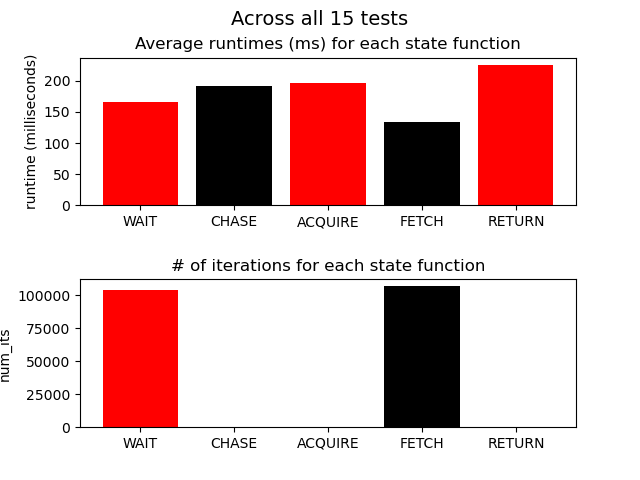
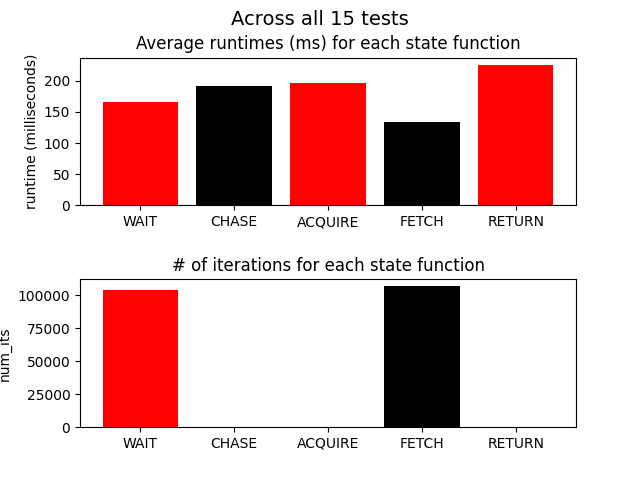
Print statements for debugging with no display

diff --git a/notebooks/luis/code/main.py b/notebooks/luis/code/main.py
@@ -24,10 +24,10 @@ def microcontroller_PROX_handler(signum,frame): # SIGUSR2
     ctrl.proximity = int(not ctrl.proximity)
     # Tell the microcontroller not to send any more proximity data until the design re-enters the ACQUIRE state
     # ctrl.communication_stop() 
-    print("PROXIMITY: ",ctrl.proximity,'\n') # NOTe: REmove print statements in interrupt handlers
+    print("PROXIMITY: ",ctrl.proximity,'\n') # NOTE: Remove print statements from interrupt handlers
     signal.signal(signal.SIGUSR2,microcontroller_PROX_handler)
 
-def main(gettimes,noprint,demo,manual,start_state):
+def main(gettimes,noprint,demo,manual,start_state,num_samples):
     global init_time
     global errfile
     init_time,logfile,errfile = logdata()
@@ -37,7 +37,7 @@ def main(gettimes,noprint,demo,manual,start_state):
     global ctrl
     # Initialize the camera, control, and fsm objects.
     cam  = camera(               noprint,demo,manual,0,logfile)
-    ctrl = control(     gettimes,noprint,demo,manual,0,logfile) 
+    ctrl = control(     gettimes,noprint,demo,manual,0,logfile,num_samples) 
     # Set up the signal handlers
     signal.signal(signal.SIGUSR1, microcontroller_CTRL_ACK_handler)
     signal.signal(signal.SIGUSR2, microcontroller_PROX_handler)
@@ -95,12 +95,15 @@ def main(gettimes,noprint,demo,manual,start_state):
         
 
 def init_fetching(args):
-    global fsm
+    global ctrl
     gettimes,noprint,demo,manual,start_state=args[:5]
+    n_samples=None
+    if len(args)==6:
+        n_samples=args[5]
     # Run main with the processed command line arguments as well as the time
     # of initialization and the log file.
     try:
-        main(gettimes,noprint,demo,manual,start_state)
+        main(gettimes,noprint,demo,manual,start_state,n_samples)
     # If there is a Keyboard interrupt, assume that it was raised 
     # by the program's response to user input and that the program 
     # exited normally
@@ -111,9 +114,10 @@ def init_fetching(args):
         try:
             fsm.control.pincers_move(1)
             fsm.control.pi_int()
+            time.sleep(0.5)
             fsm.control.stop_all()
         except:
-            print("Couldn't stop the motors")
+            print("Couldn't stop the motors (init_fetching)")
         timedata_files(gettimes,init_time)
         print("\nDone.\nTerminated by user input.")
     return 0
@@ -121,6 +125,7 @@ def init_fetching(args):
 def parse_args():
     global init_time
     global errfile
+    global fsm
     init_time = time.time()
     errfile = 'init-err.txt'
     try:        
@@ -129,12 +134,15 @@ def parse_args():
         # demo    - (0 if no demo, 1 if demo)        Choose whether we boot in to demo mode or not 
         # manual  - (0 if auto,    1 if manual)      Choose whether the design boots with auto/manual control 
         # start_state - (the state to be unit tested) Choose the name (all caps) of the initial FSM state (default is WAIT)
+        # n_samples - (runtime sampling only)         Choose the number of iterations to be sampled from the initial state's state function
         argv = sys.argv[1:]
         # DEFAULT: No timedata, allow printing, boot in demo mode, 
         # boot with manual controls, start the FSM in the WAIT state
         if len(argv)==0:
             # argv = []
             args = [None,0,1,1,'WAIT']
+        elif len(argv)==6:
+            args = [str(argv[0]),int(argv[1]),int(argv[2]),int(argv[3]),str(argv[4])]
         elif len(argv)==5:
             ### Unit test the state specified in the 5th argument ###
             # argv = [time noprint demo manual start_state]
@@ -176,6 +184,13 @@ def parse_args():
         # If an unexpected Exception has occured, then write an error log
         # to the err.txt file generated for the date and time when the 
         # exception occured.
+        try:
+            fsm.control.pincers_move(1)
+            fsm.control.pi_int()
+            time.sleep(0.5)
+            fsm.control.stop_all()
+        except:
+            print("Couldn't stop the motors (parse_args)")
         current_time = time.strftime("%Y-%m-%d_%H.%M.%S", time.localtime())[11:]
         writefile(errfile,f"Time: {current_time}\nERROR: {e}\n")
         backtrace = traceback.format_exc()

diff --git a/notebooks/luis/code/helpers/helpers.py b/notebooks/luis/code/helpers/helpers.py
@@ -103,7 +103,7 @@ def logdata():
     return (init_time,logfile,errfile)
 # Keep track of the runtime data for the fetching subsystem. 
 # (unusable with the current code)
-def time_data(args,state,step,t0=0,noprint=0,logfile=None):
+def time_data(args,state,step,t0=0,noprint=0,logfile=None,num_samples=None):
     global T0_SET
     global T0
     global T1
@@ -111,6 +111,7 @@ def time_data(args,state,step,t0=0,noprint=0,logfile=None):
     global log_file
     global time_data_dict
     global microcontroller_time_data_list
+    global n_samples
     if args=='time':
         if step==0:
             T0_SET = 0
@@ -120,6 +121,7 @@ def time_data(args,state,step,t0=0,noprint=0,logfile=None):
             microcontroller_time_data_list=[]
             no_print=noprint
             log_file = logfile
+            n_samples = num_samples
         elif step==1:
             T0_SET = 0
         elif step==2:
@@ -128,12 +130,10 @@ def time_data(args,state,step,t0=0,noprint=0,logfile=None):
                 time_data_dict[state].append(round(1000*(T1-T0),2))
             T0=time.perf_counter()
             T0_SET = 1
-            if time.time()-t0>5*60:
-                # print(time.time()-t0)
+            if n_samples is not None and len(time_data_dict[state])>=n_samples:
                 return -13
         elif step==3:
             for state,runtimes in list(time_data_dict.items()):
-                # print(f"{state}: {runtimes}")
                 # TODO: ENCOUNTERED AN ERROR IN WHICH THE FIRST ENTRY IN THE TIMEDATA
                 # IS OFTEN DISPROPORTIONATELY LARGER THAN THE REST OF THE RUNTIME
                 # DATA. THE MODIFICATIONS BELOW ARE AN ATTEMPT AT A TEMPORARY SOLUTION
@@ -149,8 +149,7 @@ def time_data(args,state,step,t0=0,noprint=0,logfile=None):
     elif step == 4 and args[0] is not None and str(args[0])=='time' and args[1]!=0:
         _, INT_start_time, INT_end_time = args
         microcontroller_time_data_list.append(round((INT_end_time-INT_start_time)*1000,2))
-        if not no_print and microcontroller_time_data_list[-1]>=100:
-            # print(microcontroller_time_data_list[-1])
+        if not no_print and microcontroller_time_data_list[-1]>=200:
             writefile(log_file,f"{microcontroller_time_data_list[-1]}\n")
 
     return 0

diff --git a/notebooks/luis/code/state_machine.py b/notebooks/luis/code/state_machine.py
@@ -195,6 +195,7 @@ class StateLogic(object):
             self.control.left_stop()
         # if not self.noprint:
         #     writefile(self.logfile,f"{decode_signal(self.control.readall())}  ")
+        print(f"{self.get_state()}: {decode_signal(self.control.readall())}")
         self.control.pi_int()
         return 0
     def acquire_commands(self,positions,timers,dist):
@@ -271,6 +272,7 @@ class StateLogic(object):
         else:
             self.control.right_move(1)
             self.control.left_stop()
+        print(f"{self.get_state()}: {decode_signal(self.control.readall())}")
         self.control.pi_int()
         return 0
     def fetch_commands(self,positions,timers,dist):
@@ -356,6 +358,7 @@ class StateLogic(object):
         else:
             self.control.left_stop()
             self.control.right_move(1)
+        print(f"{self.get_state()}: {decode_signal(self.control.readall())}")
         self.control.pi_int()             
         return 0
     def return_commands(self,positions,timers,dist):
@@ -430,6 +433,7 @@ class StateLogic(object):
         else:
             self.control.left_stop()
             self.control.right_move(1)
+        print(f"{self.get_state()}: {decode_signal(self.control.readall())}")
         self.control.pi_int()
         return 0
     def set_manual(self,mode_num):

diff --git a/notebooks/luis/code/gpio.py b/notebooks/luis/code/gpio.py
@@ -21,7 +21,7 @@ from os import getpid, kill
 # self.pins[7]: 1 to trigger the Pi_INT on the microcontroller, 0 else
 class control:
     # Initialize the object with a set of GPIO pin #s for the Pi
-    def __init__(self,gettimes,noprint,demo,manual,init_time,logfile):
+    def __init__(self,gettimes,noprint,demo,manual,init_time,logfile,num_samples):
         self.cam=None
         self.gettimes=gettimes
         self.noprint=noprint
@@ -37,7 +37,7 @@ class control:
         self.flag_sent = 1
         # If gettimes=='time', then set up for runtime data collection
         # for each of the state function loops
-        time_data(gettimes,'',0,noprint,logfile)
+        time_data(gettimes,'',0,noprint,logfile,num_samples)
         io.setmode(io.BCM)
         io.setwarnings(False) # NOTE: COMMENT THIS OUT WHEN DEBUGGING THE GPIO PINS
         for pin in self.pins[:8]:

diff --git a/notebooks/luis/code/timedata/plots.py b/notebooks/luis/code/timedata/plots.py
@@ -12,7 +12,7 @@ def readfile(fname):
     unit_data[test_idx] = {'WAIT':[0,0], 'CHASE':[0,0], 'ACQUIRE':[0,0], 'FETCH':[0,0], 'RETURN':[0,0]}
     states_mask={'WAIT':1,'CHASE':1,'ACQUIRE':1,'FETCH':1,'RETURN':1}
     for line in filedata:
-        line_text = line.split(",")
+        line_text = line.split(" ")
         if len(line_text)==3:
             overall_data['num_its'][line_text[0]] += int(line_text[1])
             overall_data['runtime'][line_text[0]] += round(float(line_text[2]),2)

diff --git a/notebooks/luis/code/sampler.py b/notebooks/luis/code/sampler.py
@@ -17,6 +17,6 @@ if len(argv[1:])>0 and argv[1]=='!CLEAR':
 else:
     # *** IGNORE THE NUMPY WARNINGS IN THE OUTPUTS ***
     for state in ['WAIT','CHASE','ACQUIRE','FETCH','RETURN']:
-        output = check_output(split(f"python3 main.py time 1 0 0 {state}"))
+        output = check_output(split(f"python3 main.py time 1 0 0 {state} 200")) # The last argument is the number of samples
         print(f"\n'{state}' : RUNTIME TEST COMPLETE")
     process_data()
